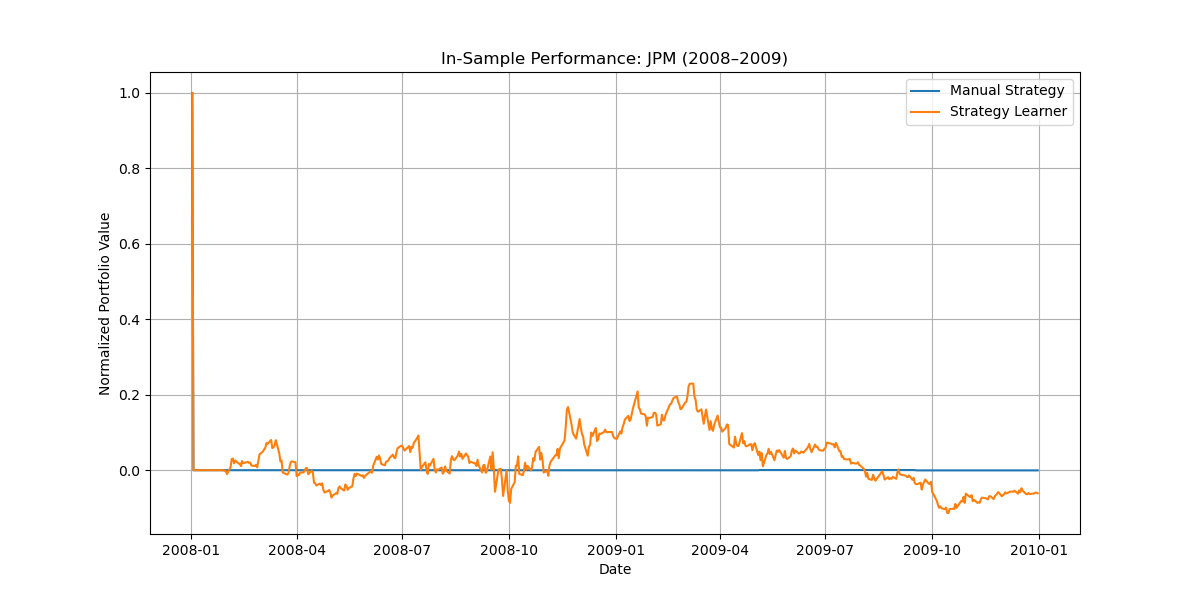
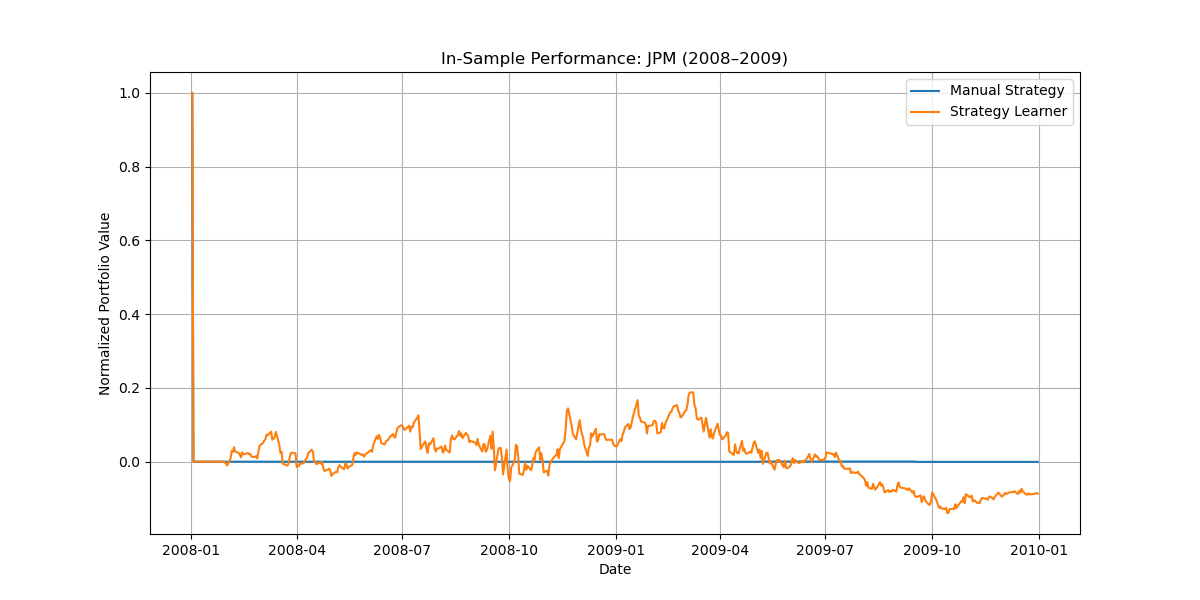
try dyna 1

diff --git a/strategy_evaluation/StrategyLearner.py b/strategy_evaluation/StrategyLearner.py
@@ -41,12 +41,12 @@ class StrategyLearner:
         self.commission = commission
         self.learner = ql.QLearner(
             num_states=1000,
-            num_actions=3,
+            num_actions=4,
             alpha=0.2,
             gamma=0.9,
             rar=0.6,
             radr=0.95,
-            dyna=50,
+            dyna=1,
             verbose=False
         )
         self.sma_window = 20
@@ -87,7 +87,7 @@ class StrategyLearner:
         states = self._compute_states(df_indicators)
 
         # origin lopp
-        for epoch in range(20):
+        for epoch in range(10):
             for i in range(len(states) - 5):
                 s = states[i]
                 r = returns.iloc[i + 5] * 1000  # reward scaling
